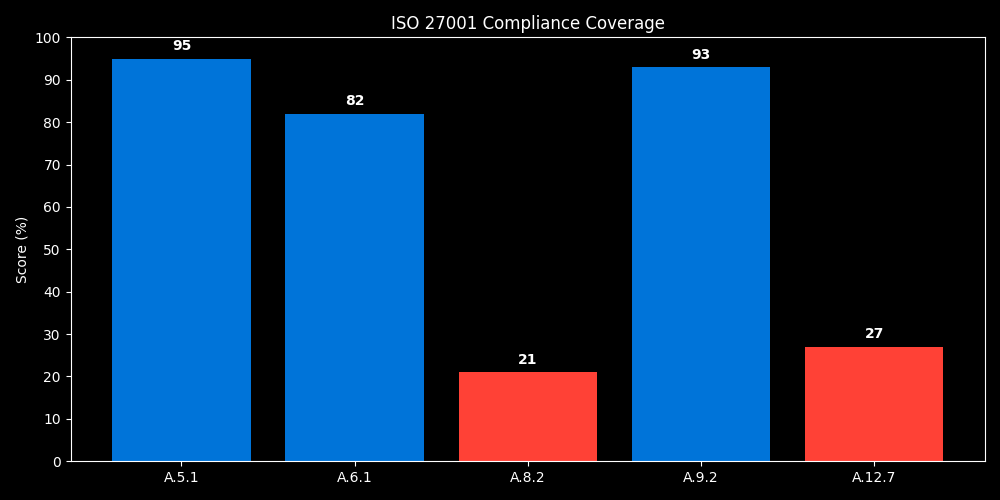
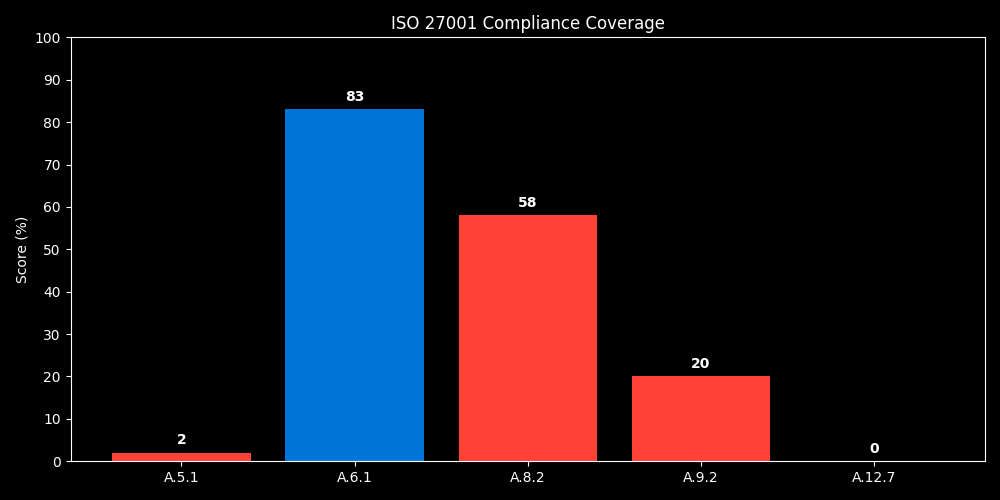
Automated dashboard update

diff --git a/README.md b/README.md
@@ -84,16 +84,16 @@ The **Zero Trust Dashboard** provides an automated, real-time view of an organiz
 ### 🗂 Metrics Table
 | Control | Domain | Score (%) |
 |---------|--------|-----------|
-| A.12.7 | Technical Vulnerability Management | 27 |
-| A.5.1 | InfoSec Policies | 95 |
-| A.6.1 | Org InfoSec | 82 |
-| A.8.2 | Risk Management | 21 |
-| A.9.2 | Access Control | 93 |
-| Application | Application | 80 |
-| Data | Data | 92 |
-| Device | Device | 16 |
-| Identity | Identity | 19 |
-| Network | Network | 41 |
+| A.12.7 | Technical Vulnerability Management | 0 |
+| A.5.1 | InfoSec Policies | 2 |
+| A.6.1 | Org InfoSec | 83 |
+| A.8.2 | Risk Management | 58 |
+| A.9.2 | Access Control | 20 |
+| Application | Application | 10 |
+| Data | Data | 84 |
+| Device | Device | 6 |
+| Identity | Identity | 16 |
+| Network | Network | 9 |
 
 ## 🚦 Color Codes
 